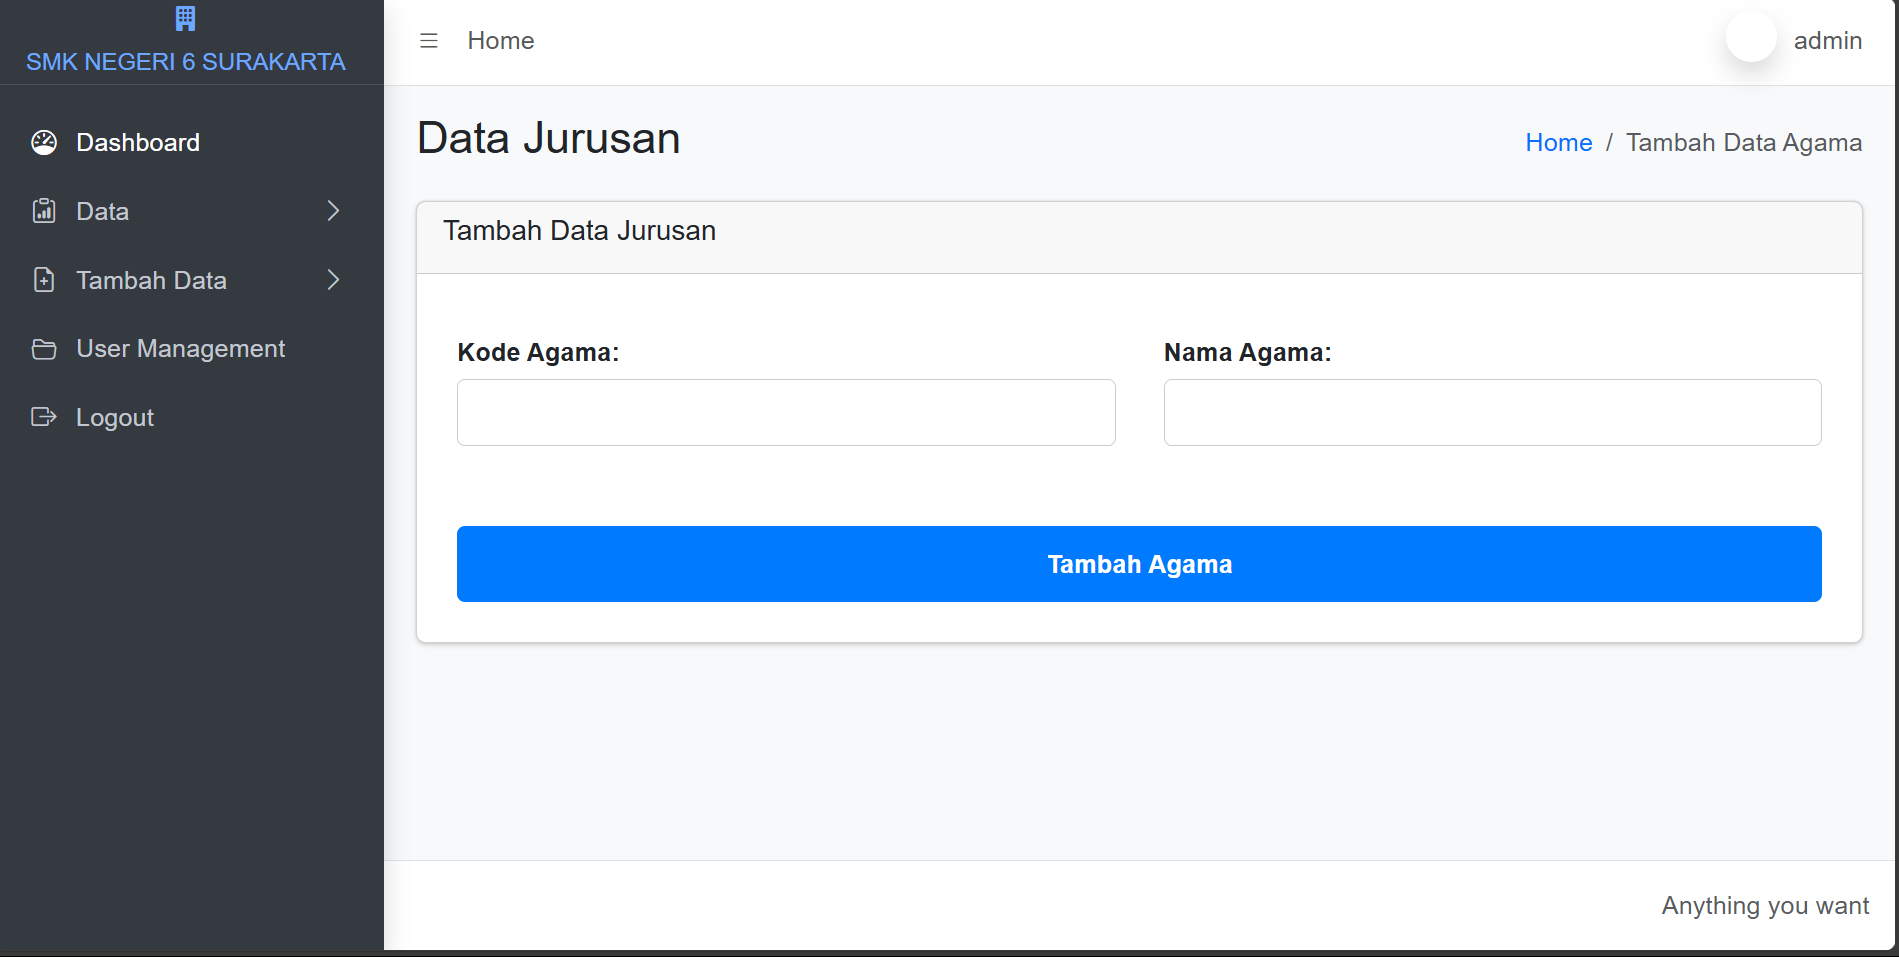
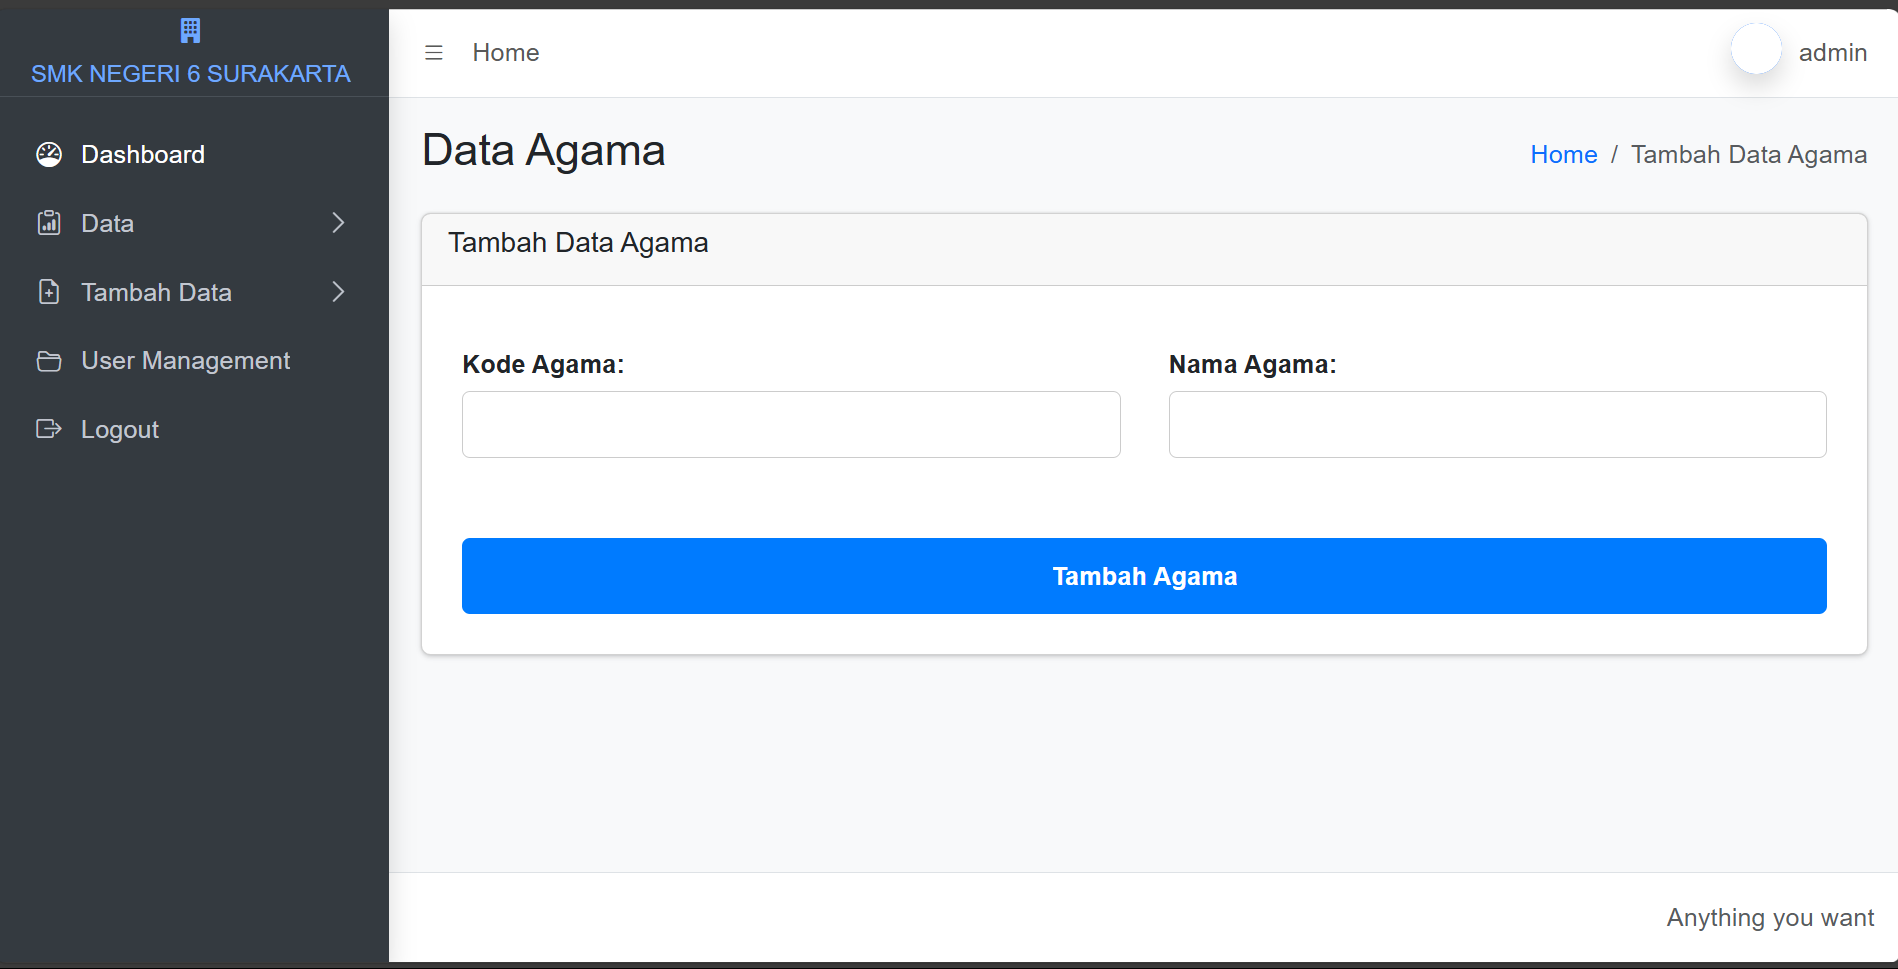
mobile schreenshot

diff --git a/tambahdataagama.php b/tambahdataagama.php
@@ -149,7 +149,7 @@ if (isset($_POST['simpan'])) {
           <!--begin::Row-->
           <div class="row">
             <div class="col-sm-6">
-              <h3 class="mb-0">Data Jurusan</h3>
+              <h3 class="mb-0">Data Agama</h3>
             </div>
             <div class="col-sm-6">
               <ol class="breadcrumb float-sm-end">
@@ -173,7 +173,7 @@ if (isset($_POST['simpan'])) {
               <!-- /.card -->
               <div class="card mb-4">
                 <div class="card-header">
-                  <h3 class="card-title">Tambah Data Jurusan</h3>
+                  <h3 class="card-title">Tambah Data Agama</h3>
                 </div>
                 <!-- /.card-header -->
                 <div class="card-body p-0">
